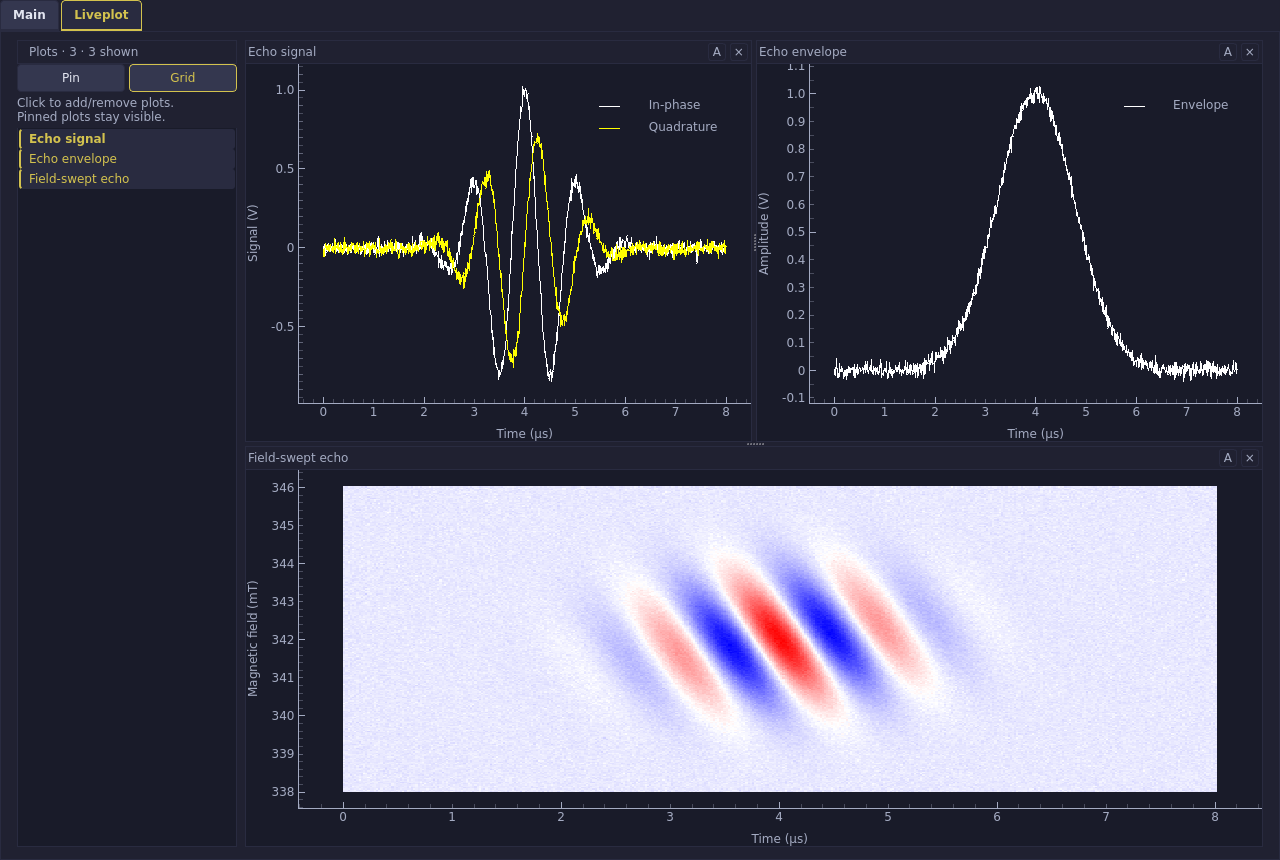
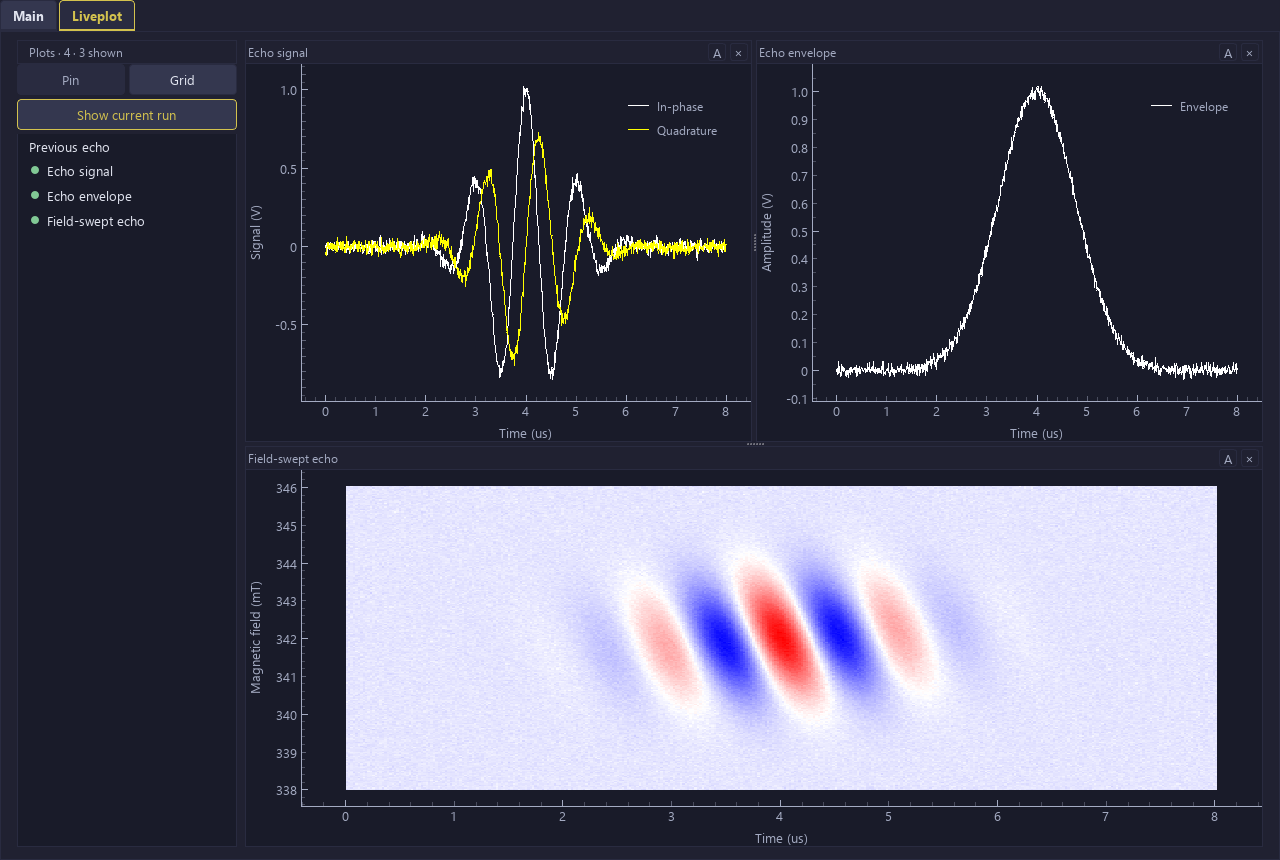
Document Liveplot view controls and refresh usage screenshots
Explain green-dot activity, Show current run, Pin and Grid interactions,
and retaining finished plots until a new experiment starts. Describe both
Hide plot and Auto range header buttons, and refresh the workspace images
with synthetic demonstration data.

Validation: mkdocs build --strict passed; screenshots visually reviewed.

diff --git a/docs/usage.md b/docs/usage.md
@@ -181,7 +181,7 @@ The Main tab contains the Script Editor, Output and Queue panels. Use the script
 
 The Liveplot tab displays live plots and lists them in the Plots panel. Long names in Queue and Plots are shortened in the middle; hover over an entry to see the full path or name. Right-click a list or plot to access its available actions.
 
-![Liveplot with synthetic demonstration data](images/atomize-liveplot.png)
+![Liveplot showing three green-dot plots with Show current run active and synthetic demonstration data](images/atomize-liveplot.png)
 
 ## Additional Interactivity
 
@@ -227,11 +227,22 @@ The Liveplot tab has the following additional features in the Plots list (availa
 - open 1d data in csv multi-column format and plot it in a new graph dock;
 - open 2d data in csv format and plot it in a new graph dock.
 
-Use **Pin** to keep the current plot visible while selecting other plots. Pinned plots appear in bold in the Plots list; select one and click **Unpin** to release it.
+A **green dot** beside a plot means its data source is connected. The dot remains visible when the plot is hidden and disappears when the source disconnects. Hover over a plot name to see its connection status and the time of its last data update.
+
+Click **Show current run** to restore all green-dot plots, including any you have hidden, and follow incoming plots from connected sources. The button is highlighted while this complete live view is active. Browsing a plot without a green dot, entering Grid or hiding a live plot removes the highlight. The button is disabled when there are no green-dot plots.
+
+Use **Pin** to keep a plot visible while browsing other plots or using Grid. Pinned plots appear in bold in the Plots list; select one and click **Unpin** to release it. **Show current run** displays only green-dot plots: other pinned plots keep their pins but are hidden in this view.
 
 Enable **Grid** to display several plots together. Click entries in the Plots list to add or remove them from the view. Pinned plots stay visible. Turn Grid off to return to the current plot plus any pinned plots.
 
-When a new experiment starts, Grid is turned off and its plots appear together automatically as data arrives; pinned plots stay visible, while other plots from previous runs remain available in the Plots list.
+When a new experiment starts, Grid turns off and live plots appear together automatically. Plots from finished runs leave the workspace but remain available in the Plots list. When an experiment finishes, its green dots disappear, but the displayed plots remain on screen until you change the view or start a new experiment.
+
+The buttons in each plot header control its view:
+
+| Button | Action |
+| --- | --- |
+| **× (Hide plot)** | Hides the plot without deleting its data. Hidden live plots continue receiving updates. Click the plot name in the Plots list to reopen it, or use **Show current run** to restore all green-dot plots together. |
+| **A (Auto range)** | Fits the axes to the plotted data after zooming or panning. Available on both 1D and 2D plots. |
 
 For 2D image plots, the graph right-click **Colormap** menu selects the colour map and
 levelling — **Default** (standard auto-levels) or the opt-in **Auto** / **Bipolar** /
